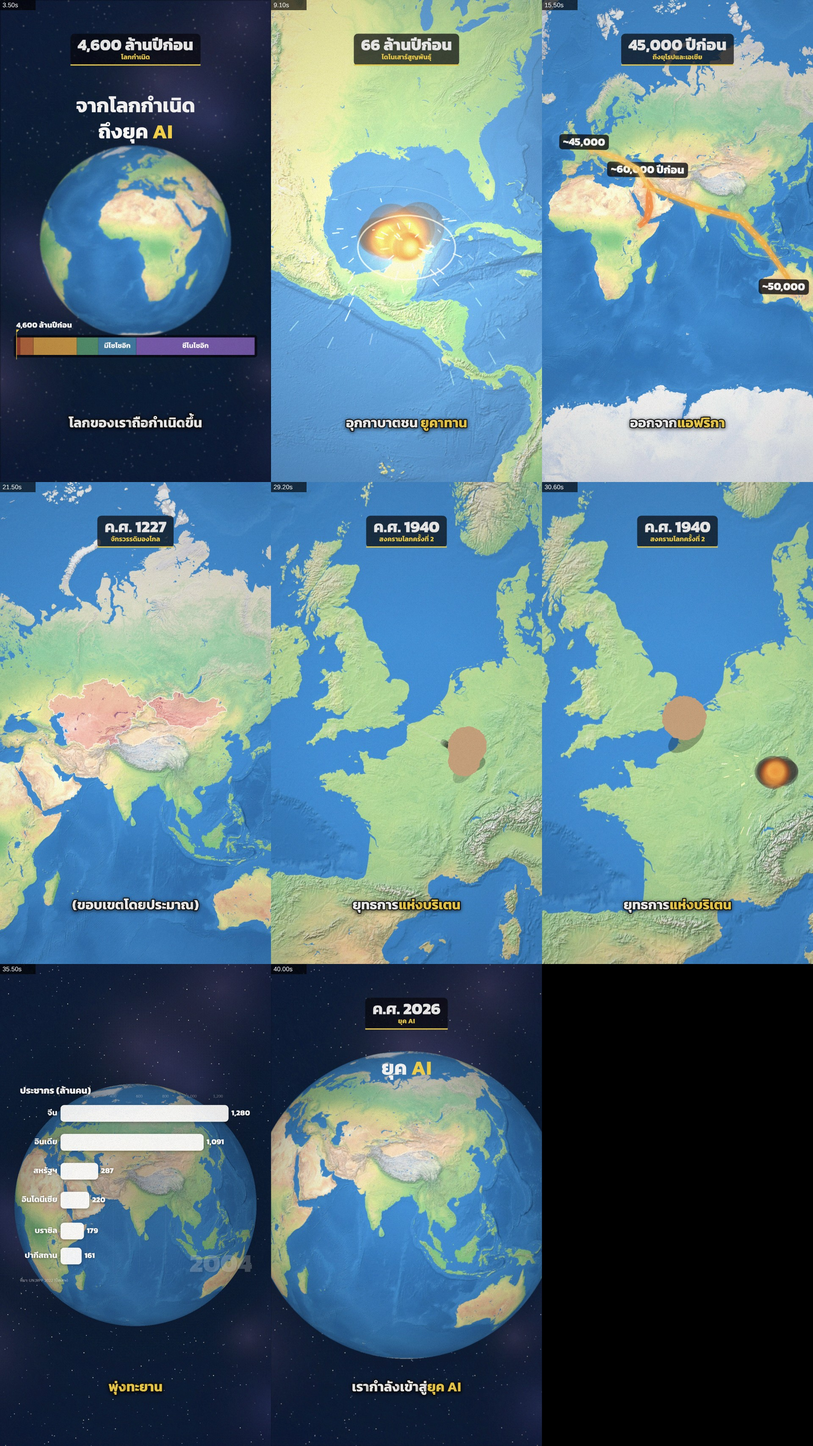
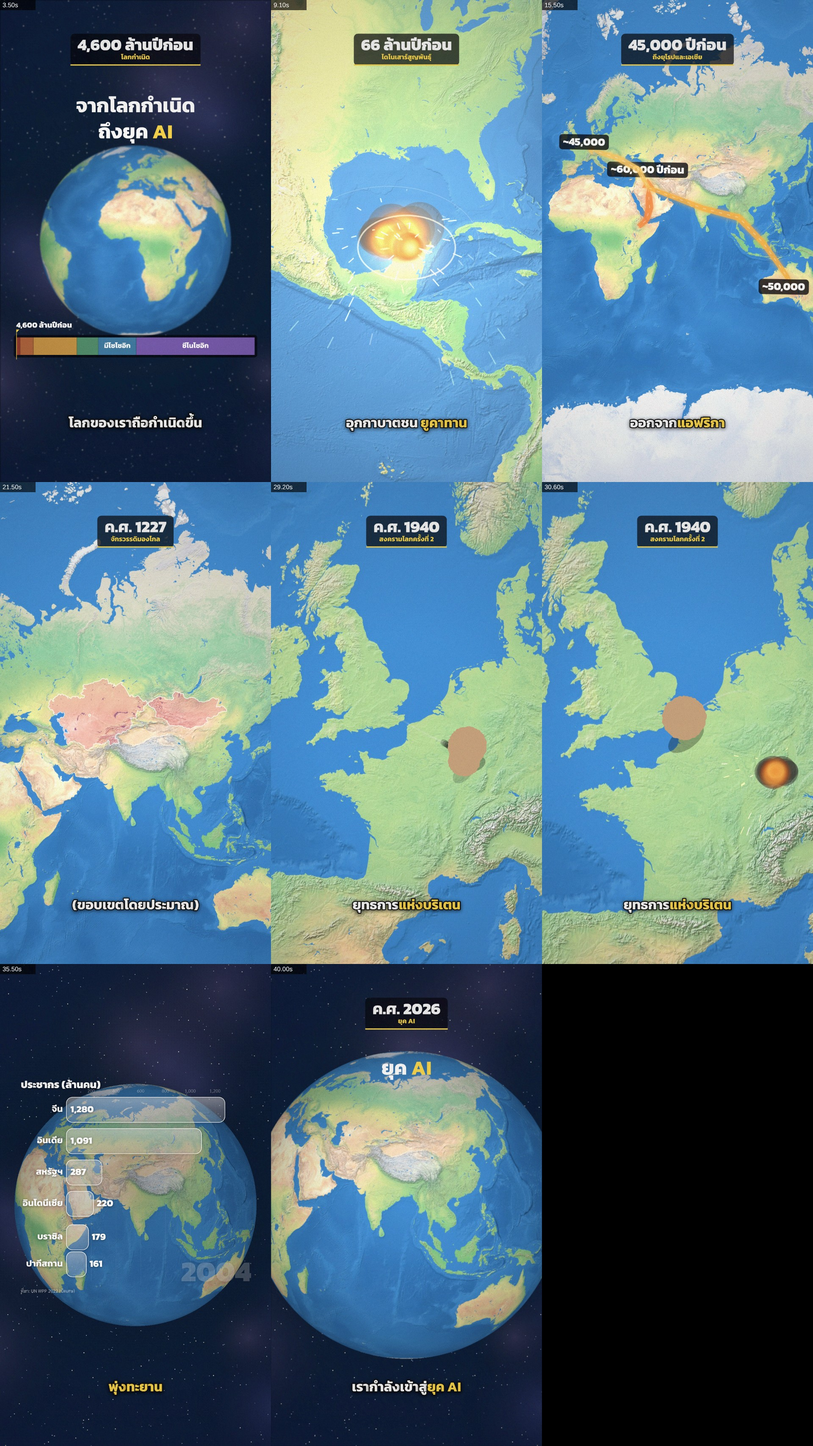
barRace overlay: thick see-through glass bars (frosted fill, white rim), value inside when it fits
Claude-Session: https://claude.ai/code/session_01DfKvn6dsJw7LVufTmy87o7

Changed region(s): [[0.0312, 0.7452, 0.2812, 0.9004], [0.2188, 0.8694, 0.3125, 0.9004]]

diff --git a/src/presets/epic.js b/src/presets/epic.js
@@ -286,10 +286,10 @@ function shade(hex, k) {   // lighten (k > 0) or darken (k < 0) a #rrggbb colour
   return `rgb(${ch(16)},${ch(8)},${ch(0)})`;
 }
 definePreset('barRace', {
-  label: 'Bar Race', about: 'a bar-chart race over years from a sourced table: years [...], series [{name, values [...], color?}] (one value per year). style overlay (default): clean white bars straight over the picture with soft shadows, no box; style plate: coloured gradient bars on a dark plate. Names in a left column, rounded gradient bars in one harmonious palette (or the series colour), the value in a pill at the bar end, a faint scale, the year large and soft behind the bars, the source line under the chart; on the same dark plate as the era readout',
+  label: 'Bar Race', about: 'a bar-chart race over years from a sourced table: years [...], series [{name, values [...], color?}] (one value per year). style overlay (default): thick see-through glass bars (frosted white, glass = fill opacity, a crisp white rim) straight over the picture, no box; style plate: coloured gradient bars on a dark plate. Names in a left column, rounded gradient bars in one harmonious palette (or the series colour), the value in a pill at the bar end, a faint scale, the year large and soft behind the bars, the source line under the chart; on the same dark plate as the era readout',
   meta: { version: '1.1.0', category: 'infographic', tags: ['bar race', 'chart', 'ranking', 'gdp', 'population', 'economy', 'race', 'years', 'data', 'compare'], camera: 'screen', layers: ['screen'],
     params: { top: { min: 2, max: 15 }, style: { enum: ['overlay', 'plate'] } } },
-  defaults: { years: [2000, 2010, 2020], series: [], top: 6, style: 'overlay', palette: null, plate: 'rgba(12,12,18,.72)', accent: '#FFD43B', unit: '', decimals: 0, x0: .05, x1: .95, y0: .2, y1: .78, title: '', source: '', size: 34, out: null, outDur: .4, dur: 6 },
+  defaults: { years: [2000, 2010, 2020], series: [], top: 6, style: 'overlay', glass: .28, palette: null, plate: 'rgba(12,12,18,.72)', accent: '#FFD43B', unit: '', decimals: 0, x0: .05, x1: .95, y0: .2, y1: .78, title: '', source: '', size: 34, out: null, outDur: .4, dur: 6 },
   run(t, o) {
     const q = (o.out != null ? 1 - clamp((t - o.out) / o.outDur) : 1) * clamp((t - o.at) / .35); if (q <= 0 || !o.series.length) return;
     const pal = o.palette || BAR_PALETTE, n = o.years.length, fy = clamp((t - o.at) / o.dur) * (n - 1), i0 = Math.min(Math.max(0, n - 2), Math.floor(fy)), fr = n > 1 ? fy - i0 : 0;
@@ -312,7 +312,7 @@ definePreset('barRace', {
     if (o.title) { c.font = fontCss({ font: 'display', weight: 800, size: o.size * 1.15 }); c.fillStyle = '#FFFFFF'; c.textAlign = 'left'; c.fillText(o.title, PX0 + px * .8, PY0 + px * 1.05); }
     // the column of names, the bar field, the scale
     c.font = fontCss({ font: 'display', weight: 700, size: o.size }); const nameW = Math.max(...o.series.map(s => c.measureText(s.name).width)) + px * .6;
-    const X0 = PX0 + px * .8 + nameW, X1 = PX1 - px * 3.6, Y0 = o.y0 * H, Y1 = o.y1 * H, rh = (Y1 - Y0) / o.top, bh = rh * (ov ? .58 : .62);
+    const X0 = PX0 + px * .8 + nameW, X1 = PX1 - px * 3.6, Y0 = o.y0 * H, Y1 = o.y1 * H, rh = (Y1 - Y0) / o.top, bh = rh * (ov ? .8 : .62);
     const yr = Math.round(lerp(o.years[i0], o.years[Math.min(n - 1, i0 + 1)], fr));
     c.save(); c.font = fontCss({ font: 'display', weight: 800, size: o.size * 3.2 }); c.textAlign = 'right'; c.textBaseline = 'alphabetic'; c.fillStyle = ov ? 'rgba(255,255,255,.22)' : 'rgba(255,255,255,.12)'; c.fillText(String(yr), PX1 - px * .7, Y1 - px * .1); c.restore();
     const step = niceStep(max / 4); c.font = fontCss({ font: 'body', weight: 500, size: o.size * .5 }); c.textAlign = 'center';
@@ -323,8 +323,13 @@ definePreset('barRace', {
       c.fillStyle = '#FFFFFF'; c.font = fontCss({ font: 'display', weight: 700, size: o.size }); c.textAlign = 'right'; c.fillText(s.name, X0 - px * .4, y);
       const vt = fmtNum(v, 10 ** -o.decimals) + (o.unit ? ' ' + o.unit : '');
       if (ov) {   // white bar, solid, with a soft shadow; the value in bold white just after it
-        c.save(); c.shadowColor = 'rgba(0,0,0,.4)'; c.shadowBlur = 12 * u; c.shadowOffsetY = 3 * u; c.fillStyle = 'rgba(255,255,255,.94)'; c.beginPath(); c.roundRect(X0, y - bh / 2, w, bh, bh * .22); c.fill(); c.restore();
-        c.font = fontCss({ font: 'display', weight: 800, size: o.size * .95 }); c.fillStyle = '#FFFFFF'; c.textAlign = 'left'; c.fillText(vt, X0 + w + px * .35, y + px * .02);
+        // see-through glass: a light frosted fill the picture shows through, a brighter top, a crisp white rim
+        const rr = bh * .24, gl = c.createLinearGradient(0, y - bh / 2, 0, y + bh / 2);
+        gl.addColorStop(0, `rgba(255,255,255,${o.glass + .16})`); gl.addColorStop(.5, `rgba(255,255,255,${o.glass})`); gl.addColorStop(1, `rgba(255,255,255,${o.glass * .7})`);
+        c.save(); c.shadowColor = 'rgba(0,0,0,.28)'; c.shadowBlur = 14 * u; c.shadowOffsetY = 4 * u; c.fillStyle = gl; c.beginPath(); c.roundRect(X0, y - bh / 2, w, bh, rr); c.fill(); c.restore();
+        c.save(); c.lineWidth = 2.2 * u; c.strokeStyle = 'rgba(255,255,255,.9)'; c.beginPath(); c.roundRect(X0, y - bh / 2, w, bh, rr); c.stroke(); c.restore();
+        c.font = fontCss({ font: 'display', weight: 800, size: o.size * 1.05 }); c.fillStyle = '#FFFFFF'; c.textAlign = 'left';
+        if (c.measureText(vt).width + px * 1.3 < w) c.fillText(vt, X0 + px * .45, y + px * .03); else c.fillText(vt, X0 + w + px * .35, y + px * .03);   // the value inside the glass when it fits
         continue;
       }
       const gr = c.createLinearGradient(X0, 0, X0 + w, 0); gr.addColorStop(0, shade(col, -.18)); gr.addColorStop(1, shade(col, .12));

diff --git a/docs/FOUNDATION_KIT.md b/docs/FOUNDATION_KIT.md
@@ -14,7 +14,7 @@ These presets come from `docs/PRESET_ROADMAP.md` (Tier 1 and the war extras) and
 | `mapDogfight` | map | Two artwork aircraft circle and chase, as a circle or a figure eight (`radius` in km, or `px` for a close shot), with smoke trails and ground shadows. `bursts: [[from, to]]` fire tracers with muzzle flashes and hit sparks; `down: {at}` sends the chased plane spinning down in black smoke to a crash blast |
 | `mapFlow` | map | A broad tapered arrow of spread (a migration, a faith, farming, a trade) with flowing texture inside and a dated label at its head. Several layers make a branching spread |
 | `mapEmpire` | map | A territory through dated `steps: [{at, units, label}]`, cross-fading with an edge pulse. The compiler checks every unit name in every step |
-| `barRace` | screen | A bar-chart race from a sourced table (`years`, `series[].values`). `style: "overlay"` (the default) draws clean white bars straight over the picture with soft shadows and no box; `style: "plate"` draws bars in one harmonious palette on a dark plate. Bars swap places as values change, the year shows large and soft behind them, and the `source` line is printed under the chart |
+| `barRace` | screen | A bar-chart race from a sourced table (`years`, `series[].values`). `style: "overlay"` (the default) draws thick see-through glass bars (frosted white, `glass` = fill opacity, a crisp white rim) straight over the picture, with no box; `style: "plate"` draws bars in one harmonious palette on a dark plate. Bars swap places as values change, the year shows large and soft behind them, and the `source` line is printed under the chart |
 
 ## One look per story (`strategy.map`)
 `strategy.map` in a manifest sets the style and grade of every `mapBase` in the story, for example `{ "style": "physical", "saturate": 1.08, "brightness": 1.04 }`. Shots then never jump between a bright atlas and a dark satellite picture. A layer can opt out with `"theme": false`.
